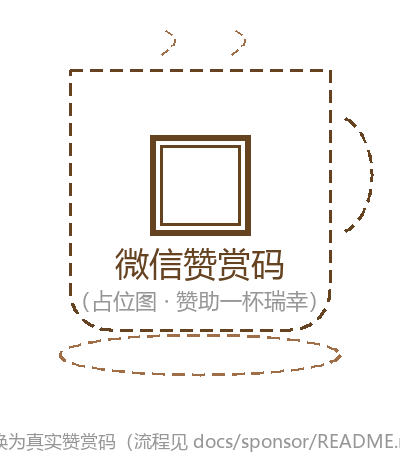
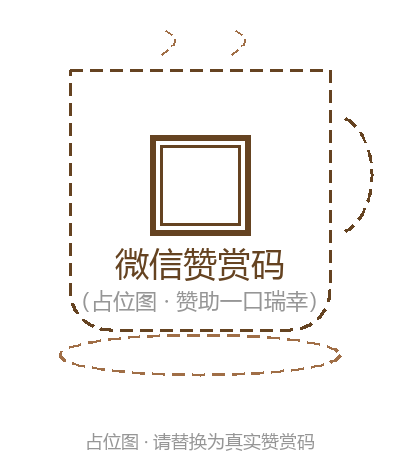
pages: internal change

Changed region(s): [[0.0, 0.9234, 1.0, 0.983], [0.6, 0.6255, 0.66, 0.6851]]

diff --git a/index.html b/index.html
@@ -33,8 +33,8 @@
   </section>
 
   <h2>为什么是 MD+</h2>
-  <p>MD+ 是一款为「微信里收到的文档打不开」这个场景而生的阅读器——在微信里长按文件，
-  选「用其他应用打开」，剩下的交给它。iOS 风格界面、大按钮、单手可用。</p>
+  <p>MD+ 是一款为「微信里收到的文档打不开」这个场景而生的阅读器——在微信里点开文件，
+  点「用其它程序打开」，选 MD+，剩下的交给它。iOS 风格界面、大按钮、单手可用。</p>
 
   <h2>功能特性</h2>
   <div class="grid">
@@ -50,7 +50,7 @@
   <div class="card">
     <p>本应用<b>未申请任何 Android 系统权限</b>（包括网络权限），技术上不存在联网与数据上传；
     不内置统计、崩溃上报、广告与推送组件。文件访问仅通过系统标准选择器（SAF）
-    与「用其他应用打开」机制进行。</p>
+    与「用其它程序打开」机制进行。</p>
     <p><a href="permissions.html">查看权限使用说明 →</a></p>
   </div>
 
@@ -65,10 +65,10 @@
   </table>
 
   <h2>赞助</h2>
-  <p>如果 MD+ 帮到了你，欢迎请开发者喝杯咖啡 —— 两栏均为微信赞赏码，金额可自选，完全自愿，感谢支持！</p>
+  <p>如果 MD+ 帮到了你，欢迎扫码赞赏——只要 1 元，完全自愿。不为收钱，只想统计一下它对多少人有用，感谢支持！</p>
   <div class="sponsor">
-    <div><img src="assets/sponsor-luckin.png" alt="微信赞赏码：赞助一杯瑞幸"><div class="cap">赞助一杯瑞幸</div></div>
-    <div><img src="assets/sponsor-other.png" alt="微信赞赏码：赞助一杯其它"><div class="cap">赞助一杯其它</div></div>
+    <div><img src="assets/sponsor-luckin.png" alt="微信赞赏码：赞助一口瑞幸"><div class="cap">赞助一口瑞幸</div></div>
+    <div><img src="assets/sponsor-other.png" alt="微信赞赏码：赞助一口其它"><div class="cap">赞助一口其它</div></div>
   </div>
 
   <h2>源代码</h2>

diff --git a/copyright.html b/copyright.html
@@ -49,8 +49,7 @@
   </ul>
 
   <h2>平台核验</h2>
-  <p>本页面所在站点（<a href="./">billmax99.github.io/mdp</a>）
-  为 MD+ 应用的官方发布页（源代码托管于 Gitee）。站点根目录备有
+  <p>本页面为 MD+ 应用的官方发布页（源代码托管于 Gitee）。站点根目录备有
   <a href="910898de3ac00a36e91831f930eb43a1.md">版权核验验证文件</a>，
   供应用平台进行所有权核验。</p>
 </main>

diff --git a/privacy.html b/privacy.html
@@ -47,7 +47,7 @@
 
   <h2>四、文件访问方式</h2>
   <p>本应用仅通过系统标准的文件选择器（SAF）访问您主动选择的文件，
-  并在您通过微信等应用「用其他应用打开」时接收该文件。
+  并在您通过微信等应用「用其它程序打开」时接收该文件。
   本应用不会扫描、索引或后台访问您的任何其他文件。</p>
 
   <h2>五、未成年人</h2>
